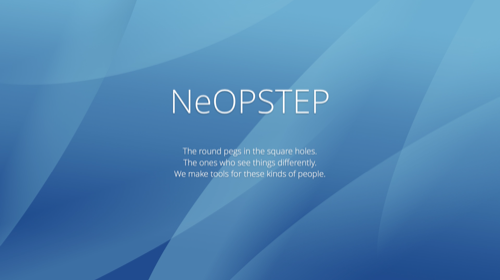
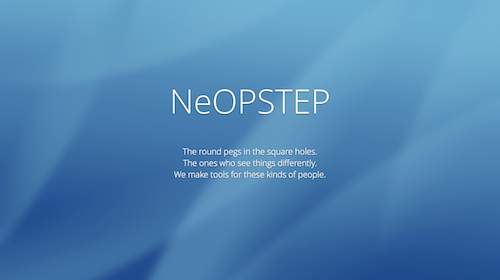
that is.

Changed region(s): [[0.33, 0.5143, 0.66, 0.6571], [0.33, 0.3143, 0.66, 0.4286], [0.33, 0.8571, 0.36, 0.8857]]

diff --git a/lab/2013/11/index.html b/lab/2013/11/index.html
@@ -50,12 +50,14 @@
 		text-shadow: 0 2px 3px rgba(0, 0, 0, 0.3);
 		background-color: #000;
 		background-image: url(http://neopstep.github.io/img/NSWebsiteDarkTexture.jpg);
+		background-size: 100px;
 	}
 	.light-bg {
 		color: #333;
 		text-shadow: 0 2px 3px rgba(255, 255, 255, 0.3);
 		background-color: #FFF;
 		background-image: url(http://neopstep.github.io/img/NSWebsiteLightTexture.jpg);
+		background-size: 100px;
 	}
 	.light-bg p {
 		color: #555;
